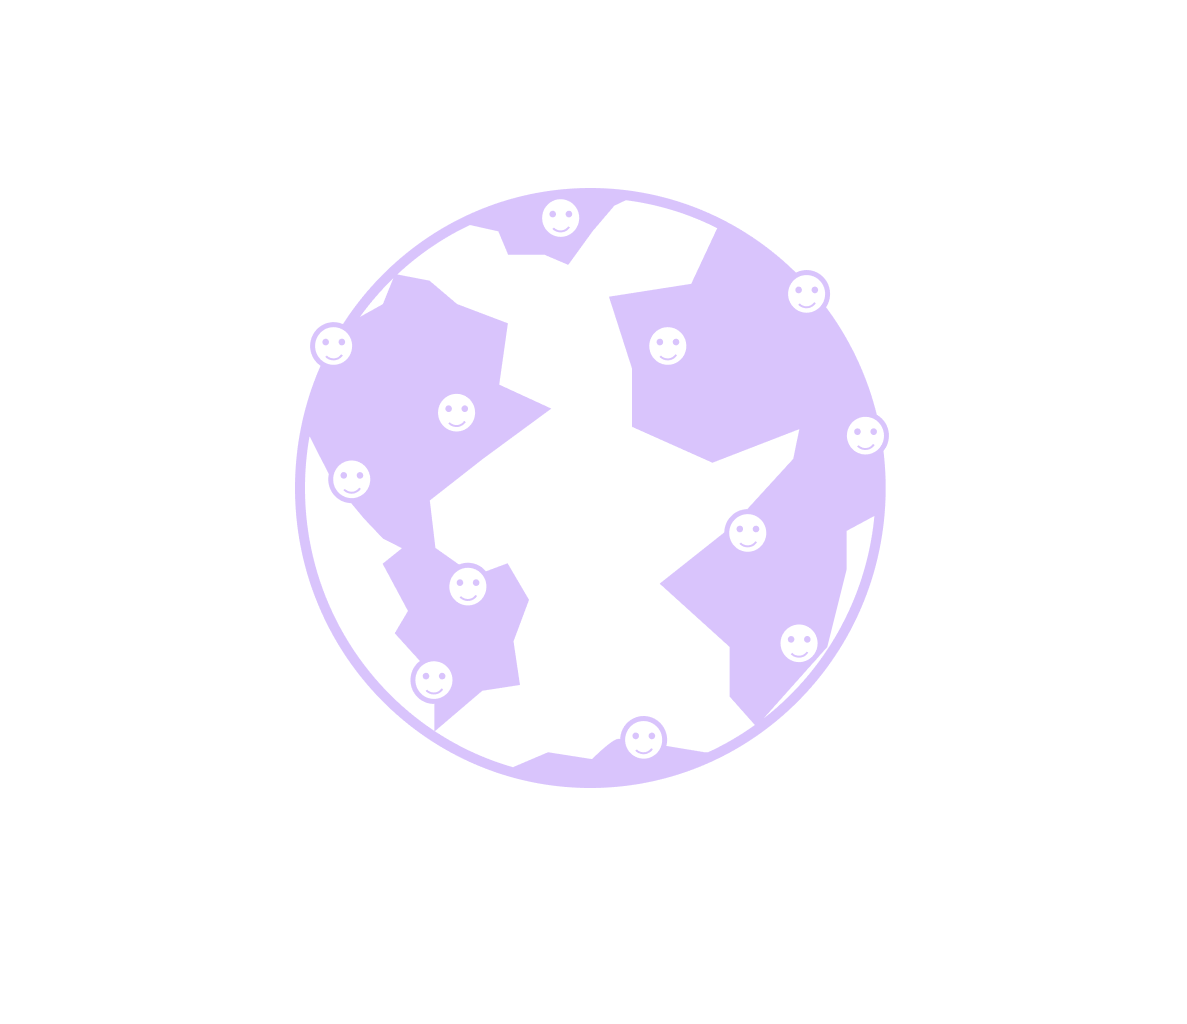
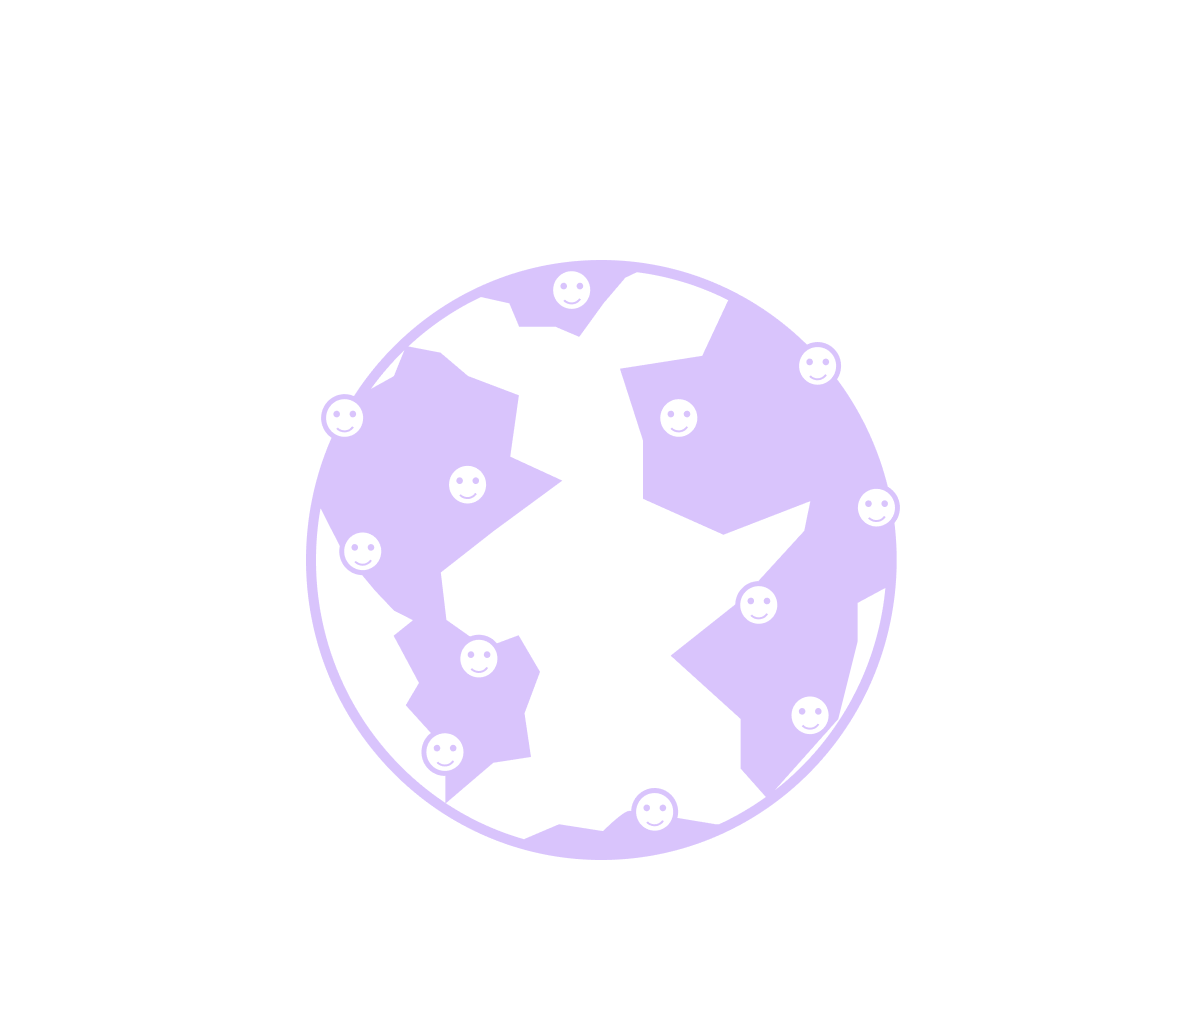
adjusted design to match mockup as close as possible

Changed region(s): [[0.2494, 0.1562, 0.7793, 0.8438]]

diff --git a/src/pages/Home/Home.js b/src/pages/Home/Home.js
@@ -8,6 +8,7 @@ import {
     MainContainer,
     Wrapper,
     Title,
+    ImgWrapper,
     Paragraph,
     StyledContainer,
     StyledColumn,
@@ -19,6 +20,7 @@ import './Home.css';
 import SignUpIcon from '../../assets/SignUpIcon.png';
 import InviteIcon from '../../assets/InviteIcon.png';
 import ConnectIcon from '../../assets/ConnectIcon.png';
+import { ReactComponent as EarthIcon } from '../../assets/svg/bgEarth.svg'; 
 
 import { Row, Column } from '../../components/UI/Grid/Grid';
 import HomeCard from '../../components/HomeCard/home-card.component.js';
@@ -58,18 +60,30 @@ const Home = user => {
                 </Title>
                 <Paragraph size={100 * fontSize} weight="500" align="center">
                     MappyPals is an exciting new app that can keep you up to
-                    date with your international friends.
+                    date with your international friends. You can follow them, message them, make new friends and see
+                    what they are up to! All in one easy-to-use app!
                 </Paragraph>
-                <Paragraph size={100 * fontSize} weight="500" align="center">
-                    You can follow them, message them, make new friends and see
-                    what they are up to!
-                </Paragraph>
-                <Paragraph size={100 * fontSize} weight="500" align="center">
-                    All in one easy-to-use app!
-                </Paragraph>
+                
+             
+                
             </Wrapper>
+            {
+                size.width >= 1200
+                ? (
+                    <ImgWrapper center>
+                        <EarthIcon />
+                        <TheThreeSteps />
+                    </ImgWrapper> )
+                : <TheThreeSteps />
+            }   
+                    
+        </MainContainer>
+    );
+};
 
-            <StyledContainer
+function TheThreeSteps() {
+    return (
+        <StyledContainer
                 column
                 alignItems="center"
                 justifyContent="space-between"
@@ -117,9 +131,10 @@ const Home = user => {
                         </Link>
                     </Column>
                 </Row>
-            </StyledContainer>
-        </MainContainer>
-    );
-};
+        </StyledContainer>
+    )
+}
+
 
 export default Home;
+

diff --git a/src/pages/Home/Home.style.js b/src/pages/Home/Home.style.js
@@ -23,9 +23,18 @@ export const Wrapper = styled(Container)`
         width: 90%;
     }
     @media only screen and (min-width: 768px) {
-        width: 70%;
+        width: 80%;
+    }
+    @media only screen and (min-width: 1200px) {
+        width: 800px;
     }
 `;
+
+export const ImgWrapper = styled(Container)`
+    background: #fff;
+    position: relative;
+    width: 100%;
+`
 
 export const SignUpButton = styled.div`
     font-family: 'Poppins', sans-serif;
@@ -49,7 +58,7 @@ export const SignUpButton = styled.div`
     }
 
     @media only screen and (min-width: 1200px) {
-        margin-top: 4rem;
+        margin-top: 30%;
         padding: 1rem 5rem;
     }
 `;
@@ -68,17 +77,28 @@ export const StyledText = styled(Text)`
 
 export const Title = styled(StyledText)`
     padding: 1rem;
+    margin-bottom: 0;
+
+    @media only screen and (min-width: 1200px) {
+        margin-top: 0;
+    }
 `;
 
 export const Paragraph = styled(StyledText)`
-    padding: 0 2rem;
+    padding: 0 1rem;
+    
+    @media only screen and (min-width: 1200px) {
+        margin-top: 0;
+    }
 `;
 
 export const StyledContainer = styled(Container)`
-    background: #fff;
+    background: rgba(255, 255, 255, 0);
     @media only screen and (min-width: 1200px) {
-        background: url(${bgImage});
-        background-repeat: no-repeat;
-        background-position: center;
+        position: absolute;
+        top: 20%;
+        left: 0; 
+        right: 0;
+        bottom: 0;
     }
 `;

diff --git a/src/components/UI/Container/Container.js b/src/components/UI/Container/Container.js
@@ -12,7 +12,6 @@ const ContainerStyle = styled.div`
     ${({ center }) => center && `justify-content: center; align-items: center;`}
     ${({ height }) => height && `height: ${height}vh`}
     ${({ width }) => width && `width: ${width}vw`}
-    ${({ width }) => width && `width: ${width}vw`}
     ${({ bgColor }) => `background: ${bgColor ? bgColor : `#000`};`}
     ${({ color }) => `color: ${color ? color : `#fff`};`}
 `;
